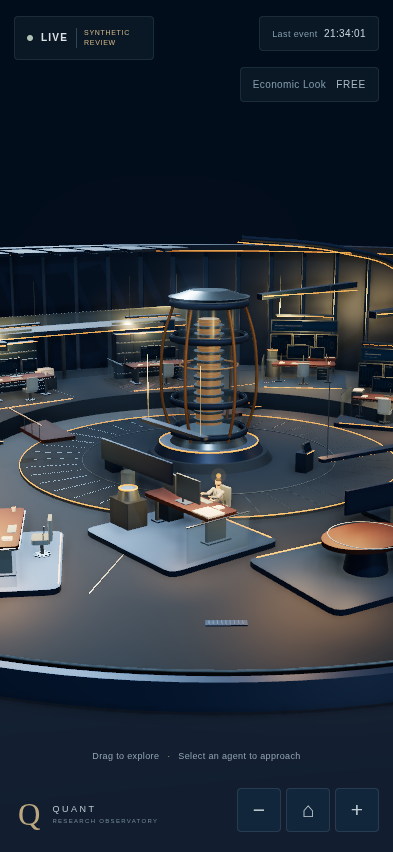
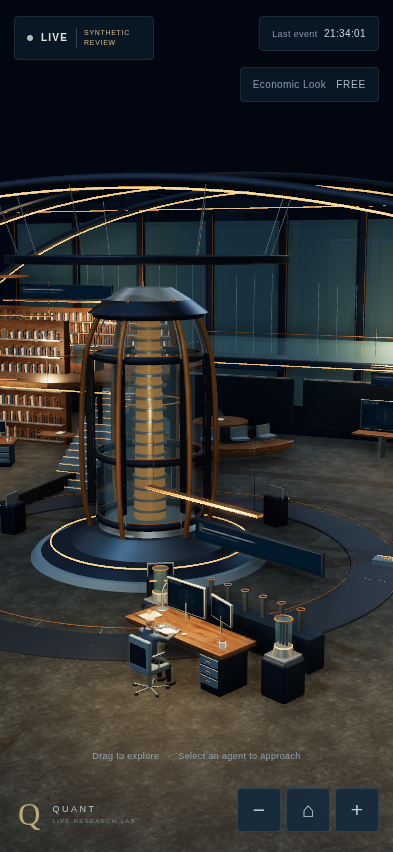
live lab: publish new architectural review captures and continuation checkpoint

diff --git a/research/live_lab_ux/review/index.html b/research/live_lab_ux/review/index.html
@@ -1,1 +1,1 @@
-<!doctype html><html lang="en"><meta charset="utf-8"><meta name="viewport" content="width=device-width,initial-scale=1"><title>Quant · Integrated visual review</title><style>body{margin:0;padding:28px;background:#0e2030;color:#d3dde3;font:14px system-ui}h1{font-weight:450;font-size:22px}p{max-width:800px;line-height:1.6;color:#a1b1bc}main{display:grid;grid-template-columns:repeat(auto-fit,minmax(min(100%,450px),1fr));gap:22px}figure{margin:0;background:#152c3e}img{display:block;width:100%;max-height:650px;object-fit:contain}figcaption{padding:14px;color:#ceb38b}a{color:#d5bc98}</style><h1>Quant · Integrated owner visual review</h1><p>All activity is synthetic and explicitly marked. A/B/C/E exercise the real live entry, native mapper and reducer using a browser-only EventSource mock. D is an explicit Economic Look reducer fixture. No production event, research result or deployment is claimed.</p><p>PRODUCTION_REPLACEMENT_AUTHORIZED = FALSE · VISUAL_REVIEW_REQUIRED = TRUE</p><main><figure><a href="A_IDLE.png"><img src="A_IDLE.png" loading="lazy" alt="A · Connected / no work"></a><figcaption>A · Connected / no work</figcaption></figure><figure><a href="B_ACTIVE.png"><img src="B_ACTIVE.png" loading="lazy" alt="B · Explicit native activity"></a><figcaption>B · Explicit native activity</figcaption></figure><figure><a href="C_SELECTED.png"><img src="C_SELECTED.png" loading="lazy" alt="C · Camera focus / optional context"></a><figcaption>C · Camera focus / optional context</figcaption></figure><figure><a href="D_ECONOMIC.png"><img src="D_ECONOMIC.png" loading="lazy" alt="D · Explicit reducer Economic Look"></a><figcaption>D · Explicit reducer Economic Look</figcaption></figure><figure><a href="E_IPHONE.png"><img src="E_IPHONE.png" loading="lazy" alt="E · iPhone portrait (emulated)"></a><figcaption>E · iPhone portrait (emulated)</figcaption></figure><figure><a href="F_FALLBACK.png"><img src="F_FALLBACK.png" loading="lazy" alt="F · Forced illustrated fallback"></a><figcaption>F · Forced illustrated fallback</figcaption></figure></main><p><a href="capture-manifest.json">Capture provenance</a> · <a href="browser-qa.json">Browser checks</a> · <a href="../index.html">Interactive isolated review</a></p></html>
+<!doctype html><html lang="en"><meta charset="utf-8"><meta name="viewport" content="width=device-width,initial-scale=1"><title>Quant · Integrated visual review</title><style>body{margin:0;padding:28px;background:#0e2030;color:#d3dde3;font:14px system-ui}h1{font-weight:450;font-size:22px}p{max-width:800px;line-height:1.6;color:#a1b1bc}main{display:grid;grid-template-columns:repeat(auto-fit,minmax(min(100%,450px),1fr));gap:22px}figure{margin:0;background:#152c3e}img{display:block;width:100%;max-height:650px;object-fit:contain}figcaption{padding:14px;color:#ceb38b}a{color:#d5bc98}</style><h1>Quant · Revue du laboratoire · 16 octobre</h1><p>Captures synthétiques intégrées. A/B/C/E utilisent la page live et son mapper natif ; D est un événement Economic Look explicite du reducer. Aucune activité réelle ni publication.</p><p>PRODUCTION_REPLACEMENT_AUTHORIZED = FALSE · VISUAL_REVIEW_REQUIRED = TRUE</p><main><figure><a href="A_IDLE.png"><img src="A_IDLE.png" loading="lazy" alt="A · Connected / no work"></a><figcaption>A · Connected / no work</figcaption></figure><figure><a href="B_ACTIVE.png"><img src="B_ACTIVE.png" loading="lazy" alt="B · Explicit native activity"></a><figcaption>B · Explicit native activity</figcaption></figure><figure><a href="C_SELECTED.png"><img src="C_SELECTED.png" loading="lazy" alt="C · Camera focus / optional context"></a><figcaption>C · Camera focus / optional context</figcaption></figure><figure><a href="D_ECONOMIC.png"><img src="D_ECONOMIC.png" loading="lazy" alt="D · Explicit reducer Economic Look"></a><figcaption>D · Explicit reducer Economic Look</figcaption></figure><figure><a href="E_IPHONE.png"><img src="E_IPHONE.png" loading="lazy" alt="E · iPhone portrait (emulated)"></a><figcaption>E · iPhone portrait (emulated)</figcaption></figure><figure><a href="F_FALLBACK.png"><img src="F_FALLBACK.png" loading="lazy" alt="F · Forced illustrated fallback"></a><figcaption>F · Forced illustrated fallback</figcaption></figure></main><p><a href="capture-manifest.json">Capture provenance</a> · <a href="browser-qa.json">Browser checks</a> · <a href="../index.html">Interactive isolated review</a></p></html>

diff --git a/research/live_lab_ux/tools/prepare-review.py b/research/live_lab_ux/tools/prepare-review.py
@@ -18,5 +18,5 @@ for name in ['capture-manifest.json','browser-qa.json']:
     if path.exists():copy2(path,review/path.name)
 labels={'A_IDLE':'A · Connected / no work','B_ACTIVE':'B · Explicit native activity','C_SELECTED':'C · Camera focus / optional context','D_ECONOMIC':'D · Explicit reducer Economic Look','E_IPHONE':'E · iPhone portrait (emulated)','F_FALLBACK':'F · Forced illustrated fallback'}
 cards=''.join(f'<figure><a href="{name}.png"><img src="{name}.png" loading="lazy" alt="{label}"></a><figcaption>{label}</figcaption></figure>' for name,label in labels.items() if (review/f'{name}.png').exists())
-(review/'index.html').write_text('''<!doctype html><html lang="en"><meta charset="utf-8"><meta name="viewport" content="width=device-width,initial-scale=1"><title>Quant · Integrated visual review</title><style>body{margin:0;padding:28px;background:#0e2030;color:#d3dde3;font:14px system-ui}h1{font-weight:450;font-size:22px}p{max-width:800px;line-height:1.6;color:#a1b1bc}main{display:grid;grid-template-columns:repeat(auto-fit,minmax(min(100%,450px),1fr));gap:22px}figure{margin:0;background:#152c3e}img{display:block;width:100%;max-height:650px;object-fit:contain}figcaption{padding:14px;color:#ceb38b}a{color:#d5bc98}</style><h1>Quant · Integrated owner visual review</h1><p>All activity is synthetic and explicitly marked. A/B/C/E exercise the real live entry, native mapper and reducer using a browser-only EventSource mock. D is an explicit Economic Look reducer fixture. No production event, research result or deployment is claimed.</p><p>PRODUCTION_REPLACEMENT_AUTHORIZED = FALSE · VISUAL_REVIEW_REQUIRED = TRUE</p><main>'''+cards+'</main><p><a href="capture-manifest.json">Capture provenance</a> · <a href="browser-qa.json">Browser checks</a> · <a href="../index.html">Interactive isolated review</a></p></html>')
+(review/'index.html').write_text('''<!doctype html><html lang="en"><meta charset="utf-8"><meta name="viewport" content="width=device-width,initial-scale=1"><title>Quant · Integrated visual review</title><style>body{margin:0;padding:28px;background:#0e2030;color:#d3dde3;font:14px system-ui}h1{font-weight:450;font-size:22px}p{max-width:800px;line-height:1.6;color:#a1b1bc}main{display:grid;grid-template-columns:repeat(auto-fit,minmax(min(100%,450px),1fr));gap:22px}figure{margin:0;background:#152c3e}img{display:block;width:100%;max-height:650px;object-fit:contain}figcaption{padding:14px;color:#ceb38b}a{color:#d5bc98}</style><h1>Quant · Revue du laboratoire · 16 octobre</h1><p>Captures synthétiques intégrées. A/B/C/E utilisent la page live et son mapper natif ; D est un événement Economic Look explicite du reducer. Aucune activité réelle ni publication.</p><p>PRODUCTION_REPLACEMENT_AUTHORIZED = FALSE · VISUAL_REVIEW_REQUIRED = TRUE</p><main>'''+cards+'</main><p><a href="capture-manifest.json">Capture provenance</a> · <a href="browser-qa.json">Browser checks</a> · <a href="../index.html">Interactive isolated review</a></p></html>')
 print('Review package prepared')

diff --git a/research/live_lab_ux/docs/VISUAL_REVIEW.md b/research/live_lab_ux/docs/VISUAL_REVIEW.md
@@ -1,57 +1,46 @@
-# Integrated owner visual review — 2026-10-15
+# Integrated visual review — 2026-10-16
 
-Status: VISUAL_REVIEW_REQUIRED = TRUE. Production replacement remains unauthorized.
+Branch: `builder/live-lab-owner-ux-rebuild-20261015`.
+Capture/source HEAD: `c825c740bbbe0999f29294a23239a1caeba500d0`.
+Owner constitution/UX3/UX4 unchanged. The rejected 2026-10-15 candidate is superseded.
 
-## Provenance
+## Review artifacts
 
-- Branch: `builder/live-lab-owner-ux-rebuild-20261015`.
-- Owner mandatory starting HEAD: `d37c50b145ca7a97628e01078999b2a2b6e43841`.
-- Pushed integration checkpoints: `2498ad2b2e23a482dc0795b7d2beee00a46944c8`, `2ebc13c583b137fbcd05bc77955c7cac7600d80f`, `b29b65b03d1f8519abe8c056a16d8131e7995048`.
-- Final implementation/capture-source HEAD: `b29b65b03d1f8519abe8c056a16d8131e7995048`. Final packaging also bounds illustrated focus magnification to preserve backdrop clarity; the WebGL captures are unchanged.
-- Retained owner visual prototype is unchanged. It is refactored into the real shared renderer; no iframe or parallel truth system.
+[Gallery](../review/index.html) · [Capture provenance](../review/capture-manifest.json) · [Browser checks](../review/browser-qa.json).
 
-## Integrated captures
+| Capture | Integrated state |
+|---|---|
+| [A_IDLE](../review/A_IDLE.png) | Connected native page, zero workers, no business motion |
+| [B_ACTIVE](../review/B_ACTIVE.png) | One explicit native document-reading action |
+| [C_SELECTED](../review/C_SELECTED.png) | Actual worker/station focus; context follows a painted focus frame |
+| [D_ECONOMIC](../review/D_ECONOMIC.png) | Explicit reducer Economic Look activates containment column |
+| [E_IPHONE](../review/E_IPHONE.png) | 393×852 portrait/touch composition |
+| [F_FALLBACK](../review/F_FALLBACK.png) | Same empty hall as illustration; identical adult geometry, factual pose and camera approach |
 
-[Open the capture gallery](../review/index.html).
+All activity is visibly marked synthetic. A→B→C exercise `live.html`, the native mapper and reducer in the same page through a browser-only EventSource mock. E uses that same path. D is an explicit normalized reducer fixture because current native protocol does not support Economic Look. No production ingress, real research activity or economic result is claimed.
 
-| Capture | Source | Meaning |
-|---|---|---|
-| [A_IDLE](../review/A_IDLE.png) | live.html → native mapper → reducer | Synthetic connected stream, zero workers, no business animation |
-| [B_ACTIVE](../review/B_ACTIVE.png) | live.html → native mapper → reducer | One explicit synthetic native document-reading action |
-| [C_SELECTED](../review/C_SELECTED.png) | live.html → native mapper → reducer | Same worker, camera approaches first, short context appears after focus |
-| [D_ECONOMIC](../review/D_ECONOMIC.png) | index.html → explicit reducer fixture | Explicit synthetic Economic Look and authorized core activation |
-| [E_IPHONE](../review/E_IPHONE.png) | live.html → native mapper → reducer | 393×852 Chromium mobile/touch composition |
-| [F_FALLBACK](../review/F_FALLBACK.png) | forced no-WebGL → same reducer/worker geometry | Same-world illustration with CPU-projected factual adult and focused context |
+## Material changes
 
-[Capture manifest](../review/capture-manifest.json) records workers, state, viewport and provenance. No production worker, economic result or live-ingress E2E is claimed. All activity is conspicuously marked synthetic.
+- `ui/architecture.js`, `layout.js`: differentiated operations hall, double-height library, reading mezzanine, suspended bridge, mineral terraces, arched structural ribbons, glazed validation enclosure, evidence pod, engineering alcove, archive niche, seminar tiers, integration table and scientific containment column.
+- `ui/characters.js`, `adult-head.js`: tailored adult humanoid with anatomical head geometry, connected neck pivot, articulated hands and seated posture. Reading sheets and typing/comparison hands align with the worktop. [Asset sources/credits](../assets/ASSET_CREDITS.md).
+- `ui/scene3d.js`, `illustrated-actors.js`: lower cinematic opening, actual worker-position focus, settled-frame/context ordering, bounded orbit, GPU queue control and lighter illustrated mode. Fallback skips constructing/texturing the 3D building and shades the same adult geometry on CPU.
+- `ui/scene3d-policy.js`: structural layout import only; factual semantics and gesture/core authority retained.
+- Local PBR assets, beveled geometry vendor export, entry titles/favicon, capture tooling and review artifacts.
 
-## Material source changes
-
-- `ui/architecture.js`: eleven equipped zones, curved multi-level architecture, mezzanine, trusses, practical lights, material palette, scientific column and articulated adult mesh.
-- `ui/scene3d.js`, `static-batch.js`, `illustrated-actors.js`: shared Three.js renderer, bounded camera, focus sequencing, rendering budget, reduced motion, same-world fallback and CPU character projection.
-- `ui/motion-authority.js`, `scene3d-policy.js`: explicit gesture families, structural positions and independent core authorization.
-- `ui/interface.js`, `render.js`: concise factual context and optional details; text comes from reducer state.
-- `live.html`, `index.html`, `styles.css`, `ui/scene3d.css`, `live-app.js`, `app.js`: full-viewport shell, three corner facts, touch controls and shared integration.
-- `core/state-machine.js`: one snapshot hardening only—clear prior animation flags before applying empty/partial snapshots. No later event on another worker can revive omitted work.
-- `tests/motion-authority.test.js`: four meaningful new regressions, including stale/resync core and cross-worker snapshot behavior.
-- `ui/vendor/`, lockfile, tools, `assets/`, `review/`, constitution and checkpoint docs: self-hosted MIT dependency, reproducible QA and review artifacts.
-- `.github/workflows/live-lab-3d-ci.yml`: owner branch enabled and renderer integration assertion updated.
-
-Native adapters, canonical native mapper, SSE binding, authenticated ingress/store and all trading/research infrastructure are unchanged. Existing Site `appgprj_6aca43cb86bc81918e067097356a37de` is untouched. No Site tool mutates it.
+Native adapters, SSE binding, canonical mapper, reducer and all trading/research infrastructure are unchanged by this 2026-10-16 revision. Original native transport/snapshot/unknown-progress protections remain in force. No GitHub polling or timer-created activity.
 
 ## Validation
 
-- 40/40 isolated Node tests PASS, including all 36 original tests.
-- Browser module syntax checks PASS; local live entry HTTP 200.
-- [Live Lab CI on implementation HEAD](https://github.com/fahimahmedb/Quant-Trade/actions/runs/38805547463): SUCCESS.
-- Browser integration/fallback results are retained in [browser-qa.json](../review/browser-qa.json).
-- Broader repository [SEC P0 pre-t0 gate](https://github.com/fahimahmedb/Quant-Trade/actions/runs/38805547450) fails the unrelated existing STATE.md freshness check: Python proof inventory says 371 tests, generator expects 539. No governance/runtime snapshot is rewritten in this visual mission. Earlier integration checkpoint `2ebc13c` had the same gate failure.
+- 41 Node tests PASS: 40 previous tests plus a neck-articulation regression.
+- [Live Lab CI on capture/source HEAD](https://github.com/fahimahmedb/Quant-Trade/actions/runs/38857883868): SUCCESS.
+- Nine browser integration/forced-no-WebGL checks PASS; results are retained in `review/browser-qa.json`.
+- The broader SEC P0 gate has the unrelated pre-existing STATE.md proof-inventory freshness failure (371 declared Python tests versus 539 generated). This visual mission does not rewrite governance/runtime snapshots.
 
-## Remaining limits and owner gate
+## Limits and next gate
 
-The Owner rejected the first flat/grey integrated image. This candidate revises camera, architectural height/depth, warm local lighting, material variation and zone detail. These are reviewable changes, not a claim of visual approval or AAA art acceptance.
+Chromium touch/portrait emulation does not certify real iPhone/Safari performance or physical-device behavior. Illustrated fallback supports pan/zoom/focus rather than full perspective orbit/PBR. Native richer roles, zone travel and Economic Look are not fabricated; they require explicit supported contracts. Production ingress→SSE E2E is outside this isolated review.
 
-Real iPhone/Safari performance and physical touch behavior still need device validation. Chromium portrait emulation is not that validation. Illustrated fallback supports pan/zoom/focus, not perspective orbit or the full PBR/lighting model. Native events do not yet carry Economic Look, semantic zone travel or richer research roles; those are not fabricated. Important-travel cinematic follow therefore remains disabled until a factual destination contract exists. Native ingress→production SSE E2E is outside this isolated review.
+The captures are an Owner review candidate, not a claim of visual acceptance. Checkpoints: `3102228` (new hall), `1d788df` (rig/fallback), `6a1967c` (work-surface gestures), `df45034` (focus/render pacing), `454d04f` (neck pivot and focus framing).
 
 REAL_CAPITAL_AUTHORIZED = FALSE
 LIVE_TRADING_AUTHORIZED = FALSE

diff --git a/research/live_lab_ux/README.md b/research/live_lab_ux/README.md
@@ -1,45 +1,29 @@
-# Quant — Live Research Lab · integrated owner rebuild
+# Quant — Live Research Lab · Owner revision 2026-10-16
 
-Branch: `builder/live-lab-owner-ux-rebuild-20261015`
-Owner starting checkpoint: `d37c50b145ca7a97628e01078999b2a2b6e43841`
-Calibration: UX3 `UX3-LUEKkkChgA`, UX4 `UX4-DkkiQkhZhkA`.
+[Integrated visual review](docs/VISUAL_REVIEW.md) · [Gallery A–F](review/index.html) · [Frozen constitution](docs/CANONICAL_UX_CONSTITUTION.md) · [Checkpoints](docs/REBUILD_20261016.md)
 
-[Canonical constitution](docs/CANONICAL_UX_CONSTITUTION.md) · [Integration checkpoints](docs/INTEGRATION_CHECKPOINT.md)
+The Owner rejected the previous sparse candidate. This revision replaces it with a differentiated architectural research hall: double-height library, mezzanine, bridge, stepped terraces, glazed validation room, evidence pod, engineering alcove, archives, seminar tiers and integration table around the scientific column. Local PBR surfaces, beveled furniture/tools and a tailored adult humanoid replace the previous generic visual kit. Asset sources are credited in `assets/ASSET_CREDITS.md`.
 
-## Run locally
+## Local review
 
 ```sh
 cd research/live_lab_ux
 python3 -m http.server 4173
 ```
 
-- `live.html`: existing same-origin native EventSource transport, mapper, reducer and integrated architectural renderer.
-- `index.html`: explicitly synthetic review/replay, no SSE or ingress. Review cases: `?case=idle`, `active`, `selected`, `economic`; original eight truth scenarios remain selectable.
-- `review/index.html`: committed integrated A–E captures after capture packaging.
+- `live.html`: existing same-origin native SSE → mapper → reducer → shared renderer.
+- `index.html`: isolated, visibly synthetic review/replay; `?case=idle|active|selected|economic`. Original eight replay scenarios remain available.
+- `review/index.html`: committed integrated captures and provenance.
 
-Runtime dependencies are vendored locally, including the Three.js MIT license. No runtime CDN, paid API or generated research data. To reproduce the vendor bundle: `npm ci && npm run vendor`.
+Runtime dependencies/assets are local; no CDN, paid API or generated business data. To rebuild the MIT Three.js vendor bundle: `npm ci && npm run vendor`.
 
-## Integrated world
+## Interaction and truth
 
-The owner's retained `owner_rebuild_preview/` is the visual starting point, preserved unchanged. Its operations ring, raised areas, back elevation, containment column, stations, low camera and corner HUD are refactored into the real renderer. The scene adds eleven physical functional zones, a curved terrace and mezzanine, access stairs, arched trusses, mixed mineral/metal/glass/timber/textile, practical warm lights and articulated seated adult humanoids.
+Full-viewport world, maximum three normal corner facts. Drag/orbit, bounded navigation, wheel/pinch zoom, Shift/right-drag pan and canonical reset. Tap worker → actual station camera focus → short context after a focused frame paints → optional factual details.
 
-The world fills the viewport. Three factual corner signals remain: transport, last business event (UTC), Economic Look. Worker selection approaches the station; context appears after focus settles; factual details are a separate optional dialog. Desktop orbit, wheel zoom, Shift/right-drag bounded pan, touch orbit/pinch and reset are supported. No travel is inferred from native events without a destination contract.
+Existing native adapters/mapper/SSE/reducer are unchanged by this revision. Heartbeat, connection, resync and duplicates never authorize work. Unknown progress stays unknown. Only explicit reducer-backed supported activity selects a gesture. Core motion requires the explicit Economic Look slot, an authorized worker and current transport. Structural zone names are not live role assignments. Screens show architectural schematics marked NON-DATA. No unsupported travel or inferred research roles.
 
-The fallback uses an empty architectural illustration captured from this exact 3D scene, with the same adult meshes projected/shaded on CPU. It supports pan/zoom and worker approach. Fallback cannot provide full perspective orbit or the WebGL material/lighting model. It does not substitute a dashboard or prepaint active workers.
-
-## Truth architecture
-
-```text
-native worker event → authenticated ingress → store → SSE
-→ LiveEventAdapter → platform-native mapper → reduceScene
-→ factual visual policy → motion-authority → shared renderer
-```
-
-Ingress/store are outside this visual subtree and are untouched. Native adapters and SSE binding are unchanged. One reducer hardening freezes every prior worker animation before snapshot application, including workers omitted by an empty/partial snapshot. This prevents a later event on another worker reviving an old gesture.
-
-Heartbeat is presence only. Connection, snapshots, reconnect and duplicates cannot authorize work. Unknown progress remains unknown. Unsupported activities, results, commits and blockers do not implicitly become reading/typing/calculation. Explicit supported activity chooses a gesture family. Economic core motion requires the explicit slot, an authorized worker and current transport; stale/resync stays dim. Reduced motion removes repetitive motion and camera easing. Idle rendering sleeps; static architecture is batched.
-
-Structural zone names do not identify live roles or prove research work. Native workers remain generic `Worker` unless the proved mapper supplies another explicit contract. Screens show `SYSTEM GEOMETRY · NON-DATA` and station availability; there are no invented financial charts, outcomes or progress.
+Rendering batches static geometry, sleeps when idle and uses a nonblocking GPU fence to bound pending frames. Camera timing follows real elapsed time; gesture deltas stay bounded. Reduced motion suppresses repetitive motion/easing. The illustrated fallback uses a new empty capture of this exact hall and CPU projection of the same articulated adults. It supports pan/zoom/focus rather than perspective orbit or WebGL lighting, and skips building/loading the 3D environment.
 
 ```text
 REAL_CAPITAL_AUTHORIZED = FALSE
@@ -49,18 +33,19 @@ PRODUCTION_REPLACEMENT_AUTHORIZED = FALSE
 VISUAL_REVIEW_REQUIRED = TRUE
 ```
 
-## Validation and capture reproduction
+## Verification/reproduction
 
 ```sh
 npm ci
 npm test
 npm run capture
-# Convert generated assets/*.png to same-name WebP before testing fallback.
+python3 tools/prepare-review.py
 npm run qa:browser
+python3 tools/prepare-review.py
 ```
 
-`CHROMIUM_PATH` can select a compatible Chromium installation. `LAB_REVIEW_URL` defaults to `http://127.0.0.1:4173`. Browser capture/QA mocks EventSource only inside isolated browser pages; it never sends an ingress event or alters a production store. A/B/C/E use `live.html` through the native mapper. D uses an explicit reducer fixture in `index.html`, because the current native protocol does not support Economic Look. Every capture is visibly synthetic, not evidence of live research.
+Capture/QA requires Chromium (`CHROMIUM_PATH`, default `/usr/bin/chromium`); packaging requires Python Pillow. `LAB_REVIEW_URL` defaults to `http://127.0.0.1:4173`. A/B/C/E use the real live entry and mapper with a browser-only EventSource mock. D uses an explicit normalized Economic Look fixture because native protocol does not supply it. Captures are synthetic, not evidence of real research.
 
-The isolated Node suite covers native events, ordering/generation, snapshots, replay guards, progress, decisions and core/gesture authority. Browser QA additionally covers native view integration, focus/details and forced no-WebGL fallback. iPhone composition uses 393×852 Chromium touch emulation; real iPhone/Safari performance is not certified.
+41 Node tests cover native ordering/generation, snapshots, replay guards, progress, decisions, core/gesture authority and neck articulation. Browser results are stored with captures. Portrait is 393×852 Chromium touch emulation; real iPhone/Safari performance is unverified. The unrelated global SEC gate retains its existing STATE.md test-inventory freshness failure; no governance data is rewritten.
 
-No Site is created, connected, deployed or replaced. Existing production remains untouched. Owner visual review of the integrated captures is the next gate; CI does not approve the art direction.
+No Site is created, connected or deployed. Owner visual approval of the new integrated captures is required before production replacement.

diff --git a/research/live_lab_ux/OWNER_UX_REBUILD_CHECKPOINT_HEAD_20261015.md b/research/live_lab_ux/OWNER_UX_REBUILD_CHECKPOINT_HEAD_20261015.md
@@ -1,11 +1,21 @@
-# Owner rebuild — current continuation
+# Owner rebuild — review checkpoint 2026-10-16
 
 Branch: `builder/live-lab-owner-ux-rebuild-20261015`.
-Owner resumed on 2026-10-16 and rejected the previous candidate as too poor visually.
+Current visual/capture source: `c825c740bbbe0999f29294a23239a1caeba500d0`.
+The next packaging commit adds the fresh A–F captures, fallback images and this review handoff. Resolve its exact HEAD with `git rev-parse HEAD` or the final handoff message.
 
-Read `docs/REBUILD_20261016.md` first. The constitution and UX3/UX4 remain frozen. The previous `docs/VISUAL_REVIEW.md` records the superseded 2026-10-15 candidate, not current visual acceptance.
+Read first:
+1. `review/index.html` and `review/capture-manifest.json`
+2. `docs/VISUAL_REVIEW.md`
+3. `docs/REBUILD_20261016.md`
+4. `docs/CANONICAL_UX_CONSTITUTION.md`
 
-Current revision: new differentiated operations hall, architectural levels/enclosures and locally retained material/head assets. Native factual architecture preserved. Resolve exact pushed checkpoint with `git rev-parse HEAD`.
+UX3 `UX3-LUEKkkChgA` / UX4 `UX4-DkkiQkhZhkA` remain frozen. The previous sparse candidate is superseded. This revision rebuilds the architecture, materials, adult rig and cinematic framing while retaining native factual authority.
 
+41 Node tests and source-head Live Lab CI PASS. 9 browser checks PASS; forced fallback has an additional fresh capture. Real iPhone/Safari validation remains outstanding. The unrelated global SEC gate retains its existing STATE.md inventory freshness failure.
+
+Native adapters/SSE/mapper/reducer unchanged in this revision. No production Site mutation, ingress canary, real trading or paid activity.
+
+NEXT_ACTION = OWNER_VISUAL_REVIEW
 PRODUCTION_REPLACEMENT_AUTHORIZED = FALSE
 VISUAL_REVIEW_REQUIRED = TRUE

diff --git a/research/live_lab_ux/docs/REBUILD_20261016.md b/research/live_lab_ux/docs/REBUILD_20261016.md
@@ -20,3 +20,13 @@ The opening now enters the hall at a lower angle instead of displaying the entir
 ## Camera/render correction
 
 The review run exposed a slow focus on the software renderer. Camera easing now follows real elapsed time, while gesture deltas remain bounded; a nonblocking WebGL fence prevents queuing more GPU frames than can finish. Context appears only after a settled focus frame is painted. Reading sheets and typing/comparison hands are aligned with the worktop. The capture tool reuses the native page across A→B→C to test that transition and avoid repeated shader compilation.
+
+## Integrated review package
+
+Final visual/capture source: `c825c740bbbe0999f29294a23239a1caeba500d0`. A–E have been regenerated from the integrated build; fallback assets come from its empty hall. A fresh forced-no-WebGL capture covers the final adult rig. 41 Node tests, source-head Live Lab CI and 9 browser checks PASS. The additional rig regression verifies that a reading nod cannot detach the head from the neck. Native authority files are byte-unchanged from the prior checkpoint (`d915dfb`).
+
+Review `review/index.html` and `docs/VISUAL_REVIEW.md`. These artifacts replace the superseded candidate; they do not claim owner approval. Production remains untouched. Real iPhone/Safari/device performance is still unverified; the broader unrelated SEC gate remains red on its pre-existing STATE.md proof-inventory freshness check.
+
+NEXT_ACTION = OWNER_VISUAL_REVIEW
+PRODUCTION_REPLACEMENT_AUTHORIZED = FALSE
+VISUAL_REVIEW_REQUIRED = TRUE
